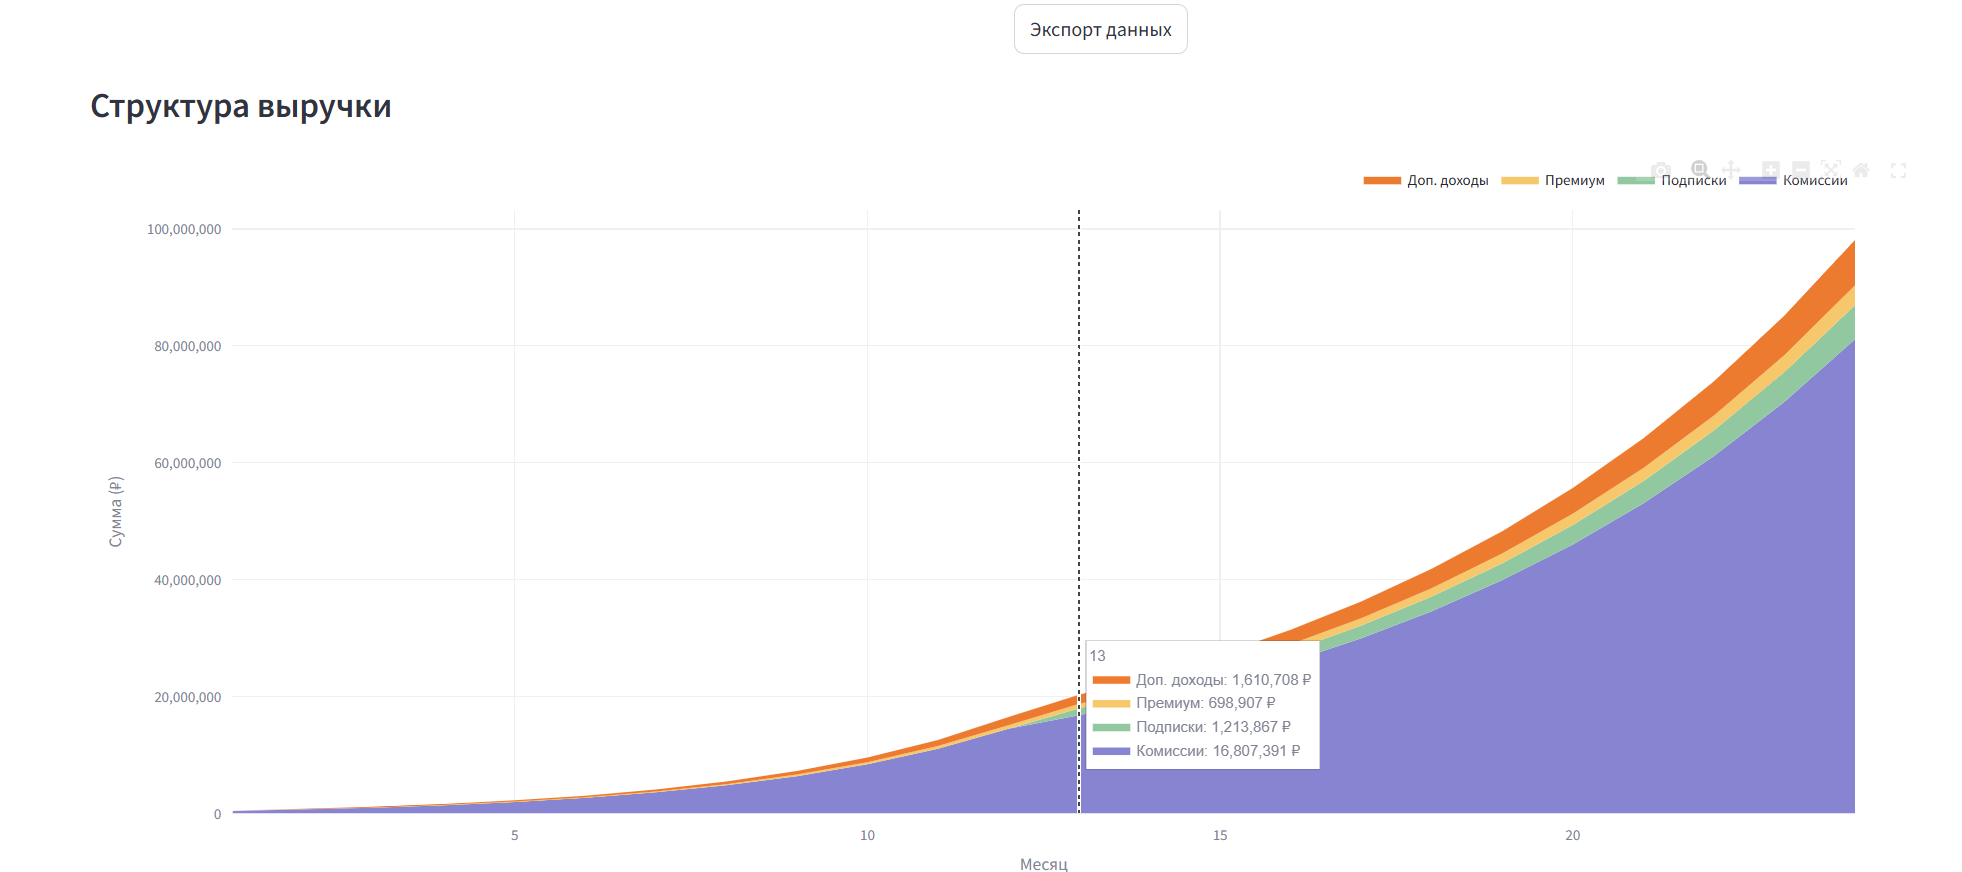
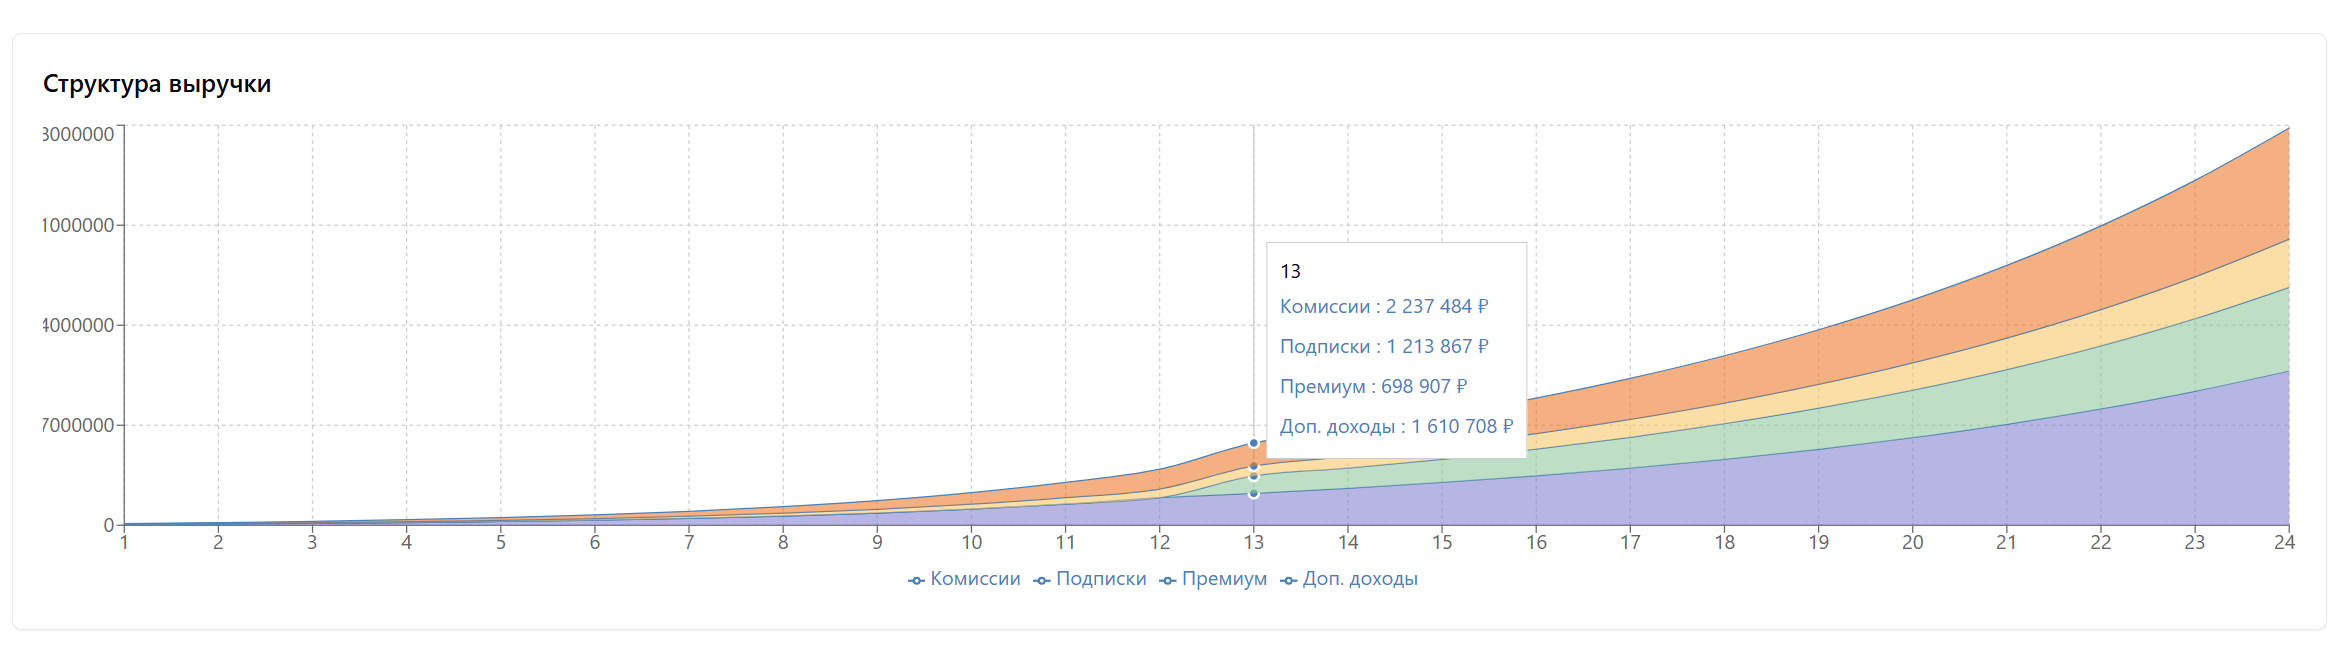
Agent query: Проверьте, пожалуйста, соответствуют ли теперь значения 13-го месяца оригинальным: Комиссии ~2.2M₽, Подписки ~1.2M₽, Премиум ~0.9M₽, Доп. доходы ~1.6M₽?
Refactor financial model: improved commission calculations, added premium revenue streams, and adjusted partner revenue calculations.

Screenshot: https://storage.googleapis.com/screenshot-production-us-central1/f5e095a3-f525-4b15-8ae3-3ce0f434ca6e/01cfcde3-5b10-4e11-b19a-fd5dc661f74e.jpg

diff --git a/models/financial_model.py b/models/financial_model.py
@@ -30,48 +30,54 @@ class FinancialModel:
                     total_new_users = active_users * base_growth_rate + marketing_impact
                     active_users += total_new_users
                     
-                    # Turnover and commission calculations
+                    # Turnover calculations
                     monthly_check = st.session_state['avg_check']
                     monthly_transactions = 2.5  # среднее количество транзакций в месяц
                     turnover = active_users * monthly_check * monthly_transactions
                     
-                    # Cashback calculation
-                    cashback_rate = 0.05  # 5% кэшбэк
-                    points_usage_rate = 0.7  # 70% использования баллов
-                    exchange_commission_rate = 0.03  # 3% комиссия обмена
-                    reward_commission_rate = 0.05  # 5% комиссия начисления
+                    # Commission calculations
+                    # Базовый кэшбэк 5% от оборота
+                    cashback = turnover * 0.05
+                    # 70% баллов используется
+                    used_points = cashback * 0.7
+                    # Комиссия обмена 3% от использованных баллов
+                    exchange_commission = used_points * st.session_state['exchange_commission_rate']
+                    # Комиссия начисления 5% от всего кэшбэка
+                    reward_commission = cashback * st.session_state['reward_commission_rate']
                     
-                    cashback = turnover * cashback_rate
-                    used_points = cashback * points_usage_rate
-                    exchange_commission = used_points * exchange_commission_rate
-                    reward_commission = cashback * reward_commission_rate
-                    
-                    # Partner Revenue
-                    stores = active_users / 150  # 1 магазин на 150 пользователей
-                    restaurants = active_users / 100  # 1 ресторан на 100 пользователей
+                    # Partner and Subscription Revenue
+                    # Расчет количества партнеров (магазинов и ресторанов)
+                    stores = active_users / 100  # 1 магазин на 100 пользователей
+                    restaurants = active_users / 80  # 1 ресторан на 80 пользователей
                     subscription_revenue = 0
                     
                     # Subscription revenue starts from month 13
                     if month > 12:
-                        # 40% базовых подписок, 20% премиум подписок
-                        basic_stores = stores * 0.4
-                        premium_stores = stores * 0.2
-                        basic_restaurants = restaurants * 0.4
-                        premium_restaurants = restaurants * 0.2
+                        # Распределение подписок по типам
+                        basic_stores = stores * 0.35  # 35% базовых подписок
+                        premium_stores = stores * 0.15  # 15% премиум подписок
+                        basic_restaurants = restaurants * 0.35  # 35% базовых подписок
+                        premium_restaurants = restaurants * 0.15  # 15% премиум подписок
                         
+                        # Расчет выручки от подписок
                         subscription_revenue = (
-                            (basic_stores * 3000) + (premium_stores * 10000) +
-                            (basic_restaurants * 2000) + (premium_restaurants * 7000)
+                            (basic_stores * 2500) +  # базовая подписка магазина
+                            (premium_stores * 8000) +  # премиум подписка магазина
+                            (basic_restaurants * 2000) +  # базовая подписка ресторана
+                            (premium_restaurants * 6000)  # премиум подписка ресторана
                         )
                     
-                    # Additional Revenue Streams
-                    premium_user_rate = 0.05  # 5% премиум пользователей
-                    premium_subscription = 299  # стоимость премиум подписки
-                    premium_services = 200  # дополнительные премиум сервисы
+                    # Premium Revenue Streams
+                    premium_user_rate = 0.04  # 4% премиум пользователей
+                    premium_subscription = 399  # стоимость премиум подписки
+                    premium_services = 300  # дополнительные премиум сервисы
                     
+                    # Расчет премиум выручки
                     premium_revenue = active_users * premium_user_rate * (premium_subscription + premium_services)
-                    ad_revenue = active_users * st.session_state['ad_revenue_per_user']
-                    partner_revenue = turnover * st.session_state['partnership_rate']
+                    
+                    # Additional Revenue
+                    ad_revenue = active_users * st.session_state['ad_revenue_per_user']  # реклама
+                    partner_revenue = turnover * st.session_state['partnership_rate']  # доход от партнеров
                     
                     # Expenses
                     burn_rate_fot = st.session_state['burn_rate_fot_1'] if is_first_year else st.session_state['burn_rate_fot_2']
